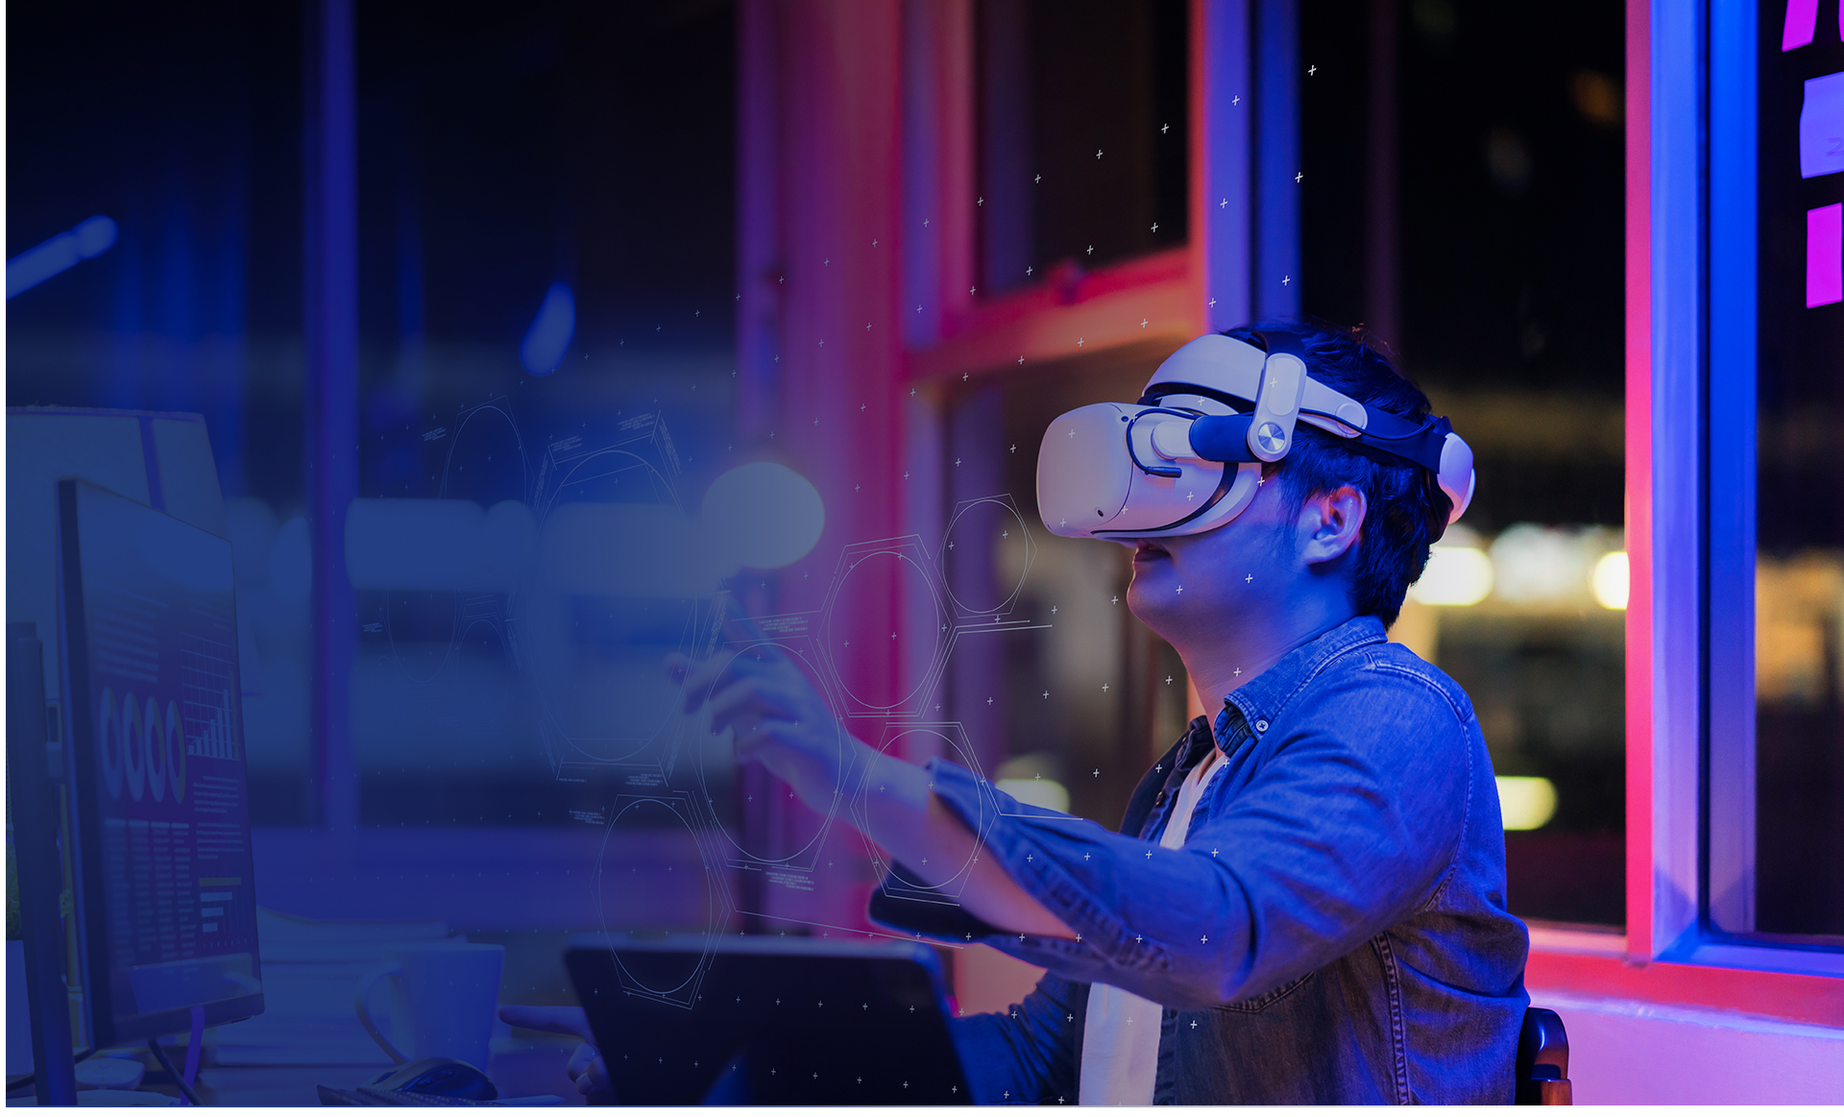
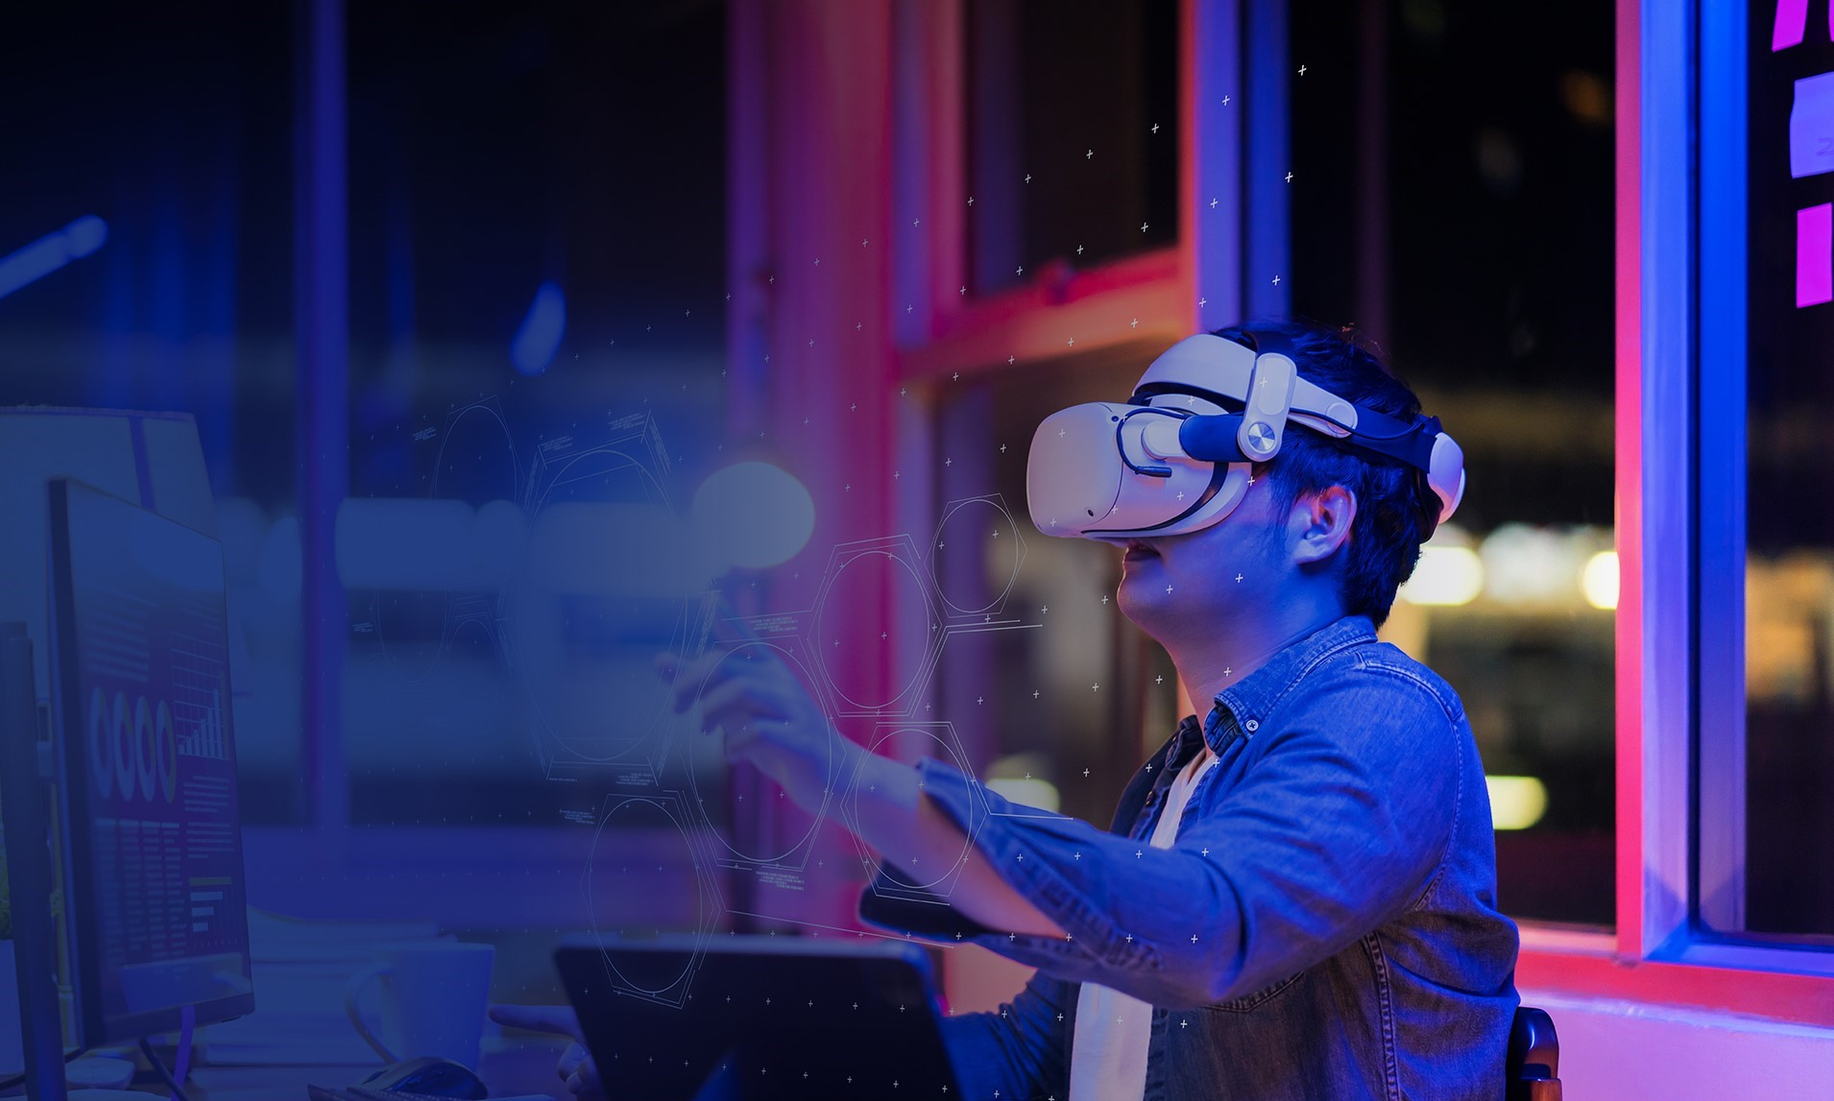
changes all images

diff --git a/index.html b/index.html
@@ -354,45 +354,55 @@
           <button type="button" data-bs-target="#carouselExampleDark" data-bs-slide-to="2" aria-label="Slide 3"></button>
         </div>
         <div class="carousel-inner">
-          <div class="carousel-item active" data-bs-interval="1000">
+          <div class="carousel-item active" data-bs-interval="5000">
             <img src="assets/images/Images_new/Banner_1.jpg" class="d-block w-100" alt="..." >
-            <div class="carousel-caption hero-content custom-caption d-none d-md-block">
-                <h3 class="sub-title  " data-aos-delay="600" data-aos="fade-up">Technology Related
-                    Consultancy
-                </h3>
-                <h2 class="title" data-aos="fade-up" data-aos-delay="800">We transform ideas into
-                    technology
+            <div class="carousel-caption hero-content custom-caption d-none d-md-block text-start text-white">
+                <P class="sub-title text-white" data-aos-delay="600" data-aos="fade-up" style="font-size: 25px;">
+                    TECHNOLOGY RELATED CONSULTANCY
+                </P>
+                <h2 class="title text-white" data-aos="fade-up" data-aos-delay="800" 
+                style="font-size: 80px; width: 72%;">
+                    We Transform Ideas into Technology                    
                 </h2>
-                <p data-aos="fade-up" data-aos-delay="900">We provide the most responsive and functional IT
-                    design for companies and businesses worldwide.</p>
+                <p data-aos="fade-up" class=" sub-title text-white" data-aos-delay="900"
+                style="font-size: 31px; width: 70%; ">
+                    We provide the most responsive and functional IT
+                    design for companies and businesses worldwide.
+                </p>
             </div>
           </div>
-          <div class="carousel-item" data-bs-interval="200000">
+          <div class="carousel-item" data-bs-interval="5000">
             <img src="assets/images/Images_new/Banner_2.jpg" class="d-block w-100" alt="...">
             <div class="carousel-caption hero-content custom-caption d-none d-md-block text-end text-white">
-                <P class="sub-title text-white" data-aos-delay="600" data-aos="fade-up">
+                <P class="sub-title text-white" data-aos-delay="600" data-aos="fade-up" style="font-size: 25px;">
                     TECHNOLOGY RELATED CONSULTANCY
-                    
                 </P>
-                <h2 class="title text-white" data-aos="fade-up" data-aos-delay="800">
-                    We transform ideas into
-                    technology
+                <h2 class="title text-white" data-aos="fade-up" data-aos-delay="800" 
+                style="font-size: 80px; width: 72%; margin-left: 30%;">
+                    We Transform Ideas into Technology                    
                 </h2>
-                <p data-aos="fade-up" class=" sub-title text-white" data-aos-delay="900">We provide the most responsive and functional IT
-                    design for companies and businesses worldwide.</p>
+                <p data-aos="fade-up" class=" sub-title text-white" data-aos-delay="900"
+                style="font-size: 31px; width: 70%; margin-left: 32%">
+                    We provide the most responsive and functional IT
+                    design for companies and businesses worldwide.
+                </p>
             </div>
           </div>
-          <div class="carousel-item" data-bs-interval="1000">
+          <div class="carousel-item" data-bs-interval="5000">
             <img src="assets/images/Images_new/Banner_3.jpg" class="d-block w-100" alt="...">
-            <div class="carousel-caption hero-content custom-caption d-none d-md-block text-white">
-                <h3 class="sub-title " data-aos-delay="600" data-aos="fade-up">Technology Related
-                    Consultancy
-                </h3>
-                <h2 class="title " data-aos="fade-up" data-aos-delay="800">We transform ideas into
-                    technology
+            <div class="carousel-caption hero-content custom-caption d-none d-md-block text-end text-white">
+                <P class="sub-title text-white" data-aos-delay="600" data-aos="fade-up" style="font-size: 25px;">
+                    TECHNOLOGY RELATED CONSULTANCY
+                </P>
+                <h2 class="title text-white" data-aos="fade-up" data-aos-delay="800" 
+                style="font-size: 80px; width: 72%; margin-left: 30%;">
+                    We Transform Ideas into Technology                    
                 </h2>
-                <p data-aos="fade-up" data-aos-delay="900">We provide the most responsive and functional IT
-                    design for companies and businesses worldwide.</p>
+                <p data-aos="fade-up" class=" sub-title text-white" data-aos-delay="900"
+                style="font-size: 31px; width: 70%; margin-left: 32%">
+                    We provide the most responsive and functional IT
+                    design for companies and businesses worldwide.
+                </p>
             </div>
           </div>
         </div>
@@ -407,9 +417,8 @@
             <!-- About Wrap Start -->
             <div class="about-wrap">
                 <div class="section-title text-center">
-                    <!-- <h3 class="sub-title">Who we are</h3> -->
-                    <!-- <h2 class="title">ViSenAi is powered by an exclusive team
-                    </h2> -->
+                    <h3 class="sub-title ">Who we are</h3>
+                    <h2 class="title">ViSenAi is powered by an exclusive team</h2>
                 </div>
                 <!-- About Content Wrap Start -->
                 <div class="about-content-wrap">
@@ -418,11 +427,11 @@
                             <!-- About Image Wrap Start -->
                             <div class="about-img-wrap">
                                 <div class="about-img about-img-big">
-                                    <img src="assets/images/wepik-export-202402271219094Nvl.jpeg" alt="">
+                                    <img src="assets/images/Images_new/Image_1.png" alt="">
                                 </div>
                                 <!-- <div class="about-img about-img-sm">
                                     <img src="assets/images/wepik-export-20240223060621KZA0(1).jpeg" alt="">
-                                    <div class="shape-01"></div>
+                                    <div class="shape-01">hi</div>
                                 </div> -->
                             </div>
                             <!-- About Image Wrap End -->
@@ -431,17 +440,18 @@
                             <!-- About Content Start -->
                             <div class="about-content section-title">
                                 <!-- <p class="sub-title">ABOUT US</p> -->
-                                <h3 class="sub-title">ABOUT US</h3>
+                                
+                                <!-- <h3 class="sub-title">ABOUT US</h3>
                                 <p class="title">WHO WE ARE</p>
                                 <p class="text">ViSenAi is powered by an exclusive team of young professionals with 
                                     undiminishing spirit and uncompromising dedication. They have in-depth industry knowledge 
                                     and deep domain expertise in the AR, VR, AI technology spectrum. 
                                     ViSenAi develops customer focussed innovative solutions using the emerging AR, VR, AI 
                                     technologies that result in business advantages like huge return on investment and 
-                                    customer satisfaction. Advance technological experience of Praptisense digitally transfor</p>
+                                    customer satisfaction. Advance technological experience of Praptisense digitally transfor</p> -->
                                 <!-- About List Item Wrap Start -->
                                 <div class="about-list-item-wrap">
-                                    <!-- <a href="#artificialIntelligence">
+                                    <a href="#artificialIntelligence">
                                         <div class="about-list-item">
                                             <div class="about-img">
                                                 <img src="assets/images/ai_12534625(2).png" alt="">
@@ -453,8 +463,8 @@
                                                 </span>
                                             </div>
                                         </div>
-                                    </a> -->
-                                    <!-- <a href="#augumentedReality">
+                                    </a>
+                                    <a href="#augumentedReality">
                                         <div class="about-list-item">
                                             <div class="about-img">
                                                 <img src="assets/images/simulation_2861846.png" alt="">
@@ -465,8 +475,8 @@
                                                     human-computer interaction</span>
                                             </div>
                                         </div>
-                                    </a> -->
-                                    <!-- <a href="#enterpriseApplication">
+                                    </a>
+                                    <a href="#enterpriseApplication">
                                         <div class="about-list-item">
                                             <div class="about-img">
                                                 <img src="assets/images/smartphone_3715371.png" alt="">
@@ -477,8 +487,8 @@
                                                     enterprise applications</span>
                                             </div>
                                         </div>
-                                    </a> -->
-                                    <!-- <a href="#marketingAutomations">
+                                    </a>
+                                    <a href="#marketingAutomations">
                                         <div class="about-list-item">
                                             <div class="about-img">
                                                 <img src="assets/images/promote_2631057.png" alt="">
@@ -489,7 +499,7 @@
                                                     world-class tech teams</span>
                                             </div>
                                         </div>
-                                    </a> -->
+                                    </a>
                                 </div>
                                 <!-- About List Item Wrap End -->
                             </div>
@@ -504,52 +514,53 @@
     </div>
     <!-- About End -->
     <!-- Vision mission Start -->
-    <div class="section">
-        <div class="container" id="aboutus">
+    <!-- <div class="section">
+        <div class="container" id="aboutus"> -->
             <!-- About Wrap Start -->
-            <div class="about-wrap">
-                <div class="section-title ">
+            <!-- <div class="about-wrap">
+                <div class="section-title "> -->
                     <!-- <h3 class="sub-title">Vision</h3> -->
                     <!-- <h2 class="title">ViSenAi is powered by an exclusive team
                     </h2> -->
-                </div>
+                <!-- </div> -->
                 <!-- About Content Wrap Start -->
-                <div class="about-content-wrap">
+                <!-- <div class="about-content-wrap">
                     <div class="row">
                         <div class="col-lg-6">
-                            <h3 class="sub-title text-center">Vision</h3>
+                            <h3 class="sub-title text-center">Vision</h3> -->
                             <!-- About Image Wrap Start -->
-                            <div class="about-img-wrap p-3">
-                                <div class="row">
-                                    <div class="col-lg-6">
+                            <!-- <div class="about-img-wrap p-3">
+                                <div class="row"> -->
+                                    <!-- <div class="col-lg-6">
                                         <div class="about-img about-img-big">
                                             <img src="assets/images/wepik-export-202402271219094Nvl.jpeg" width=""
                                                 height="" alt="" >
                                         </div>
-                                    </div>
-                                    <div class="col-lg-6">
+                                    </div> -->
+                                    <!-- <div class="col-lg-6"> -->
                                         <!-- About Content Start -->
-                                        <div class="about-content section-title">
+                                        <!-- <div class="about-content section-title"> -->
                                             <!-- <p class="sub-title">ABOUT US</p> -->
                                             <!-- <h3 class="sub-title">ABOUT US</h3> -->
                                             <!-- <p class="title">WHO WE ARE</p> -->
-                                            <p class="text">To become the favoured technology partner of business 
+                                            <!-- <p class="text">To become the favoured technology partner of business 
                                                 enterprises of any industry any size and achieve sustainability with 
-                                                consistent innovations.</p>
-                                        </div>
+                                                consistent innovations.
+                                            </p> -->
+                                        <!-- </div> -->
                                         <!-- About Content End -->
-                                    </div>
+                                    <!-- </div>
 
-                                </div>
+                                </div> -->
                                 <!-- <p>hi</p> -->
 
-                            </div>
+                            <!-- </div> -->
                             <!-- About Image Wrap End -->
-                        </div>
-                        <div class="col-lg-6">
-                            <h3 class="sub-title text-center">Mission</h3>
+                        <!-- </div> -->
+                        <!-- <div class="col-lg-6">
+                            <h3 class="sub-title text-center">Mission</h3> -->
                             <!-- About Image Wrap Start -->
-                            <div class="about-img-wrap p-3">
+                            <!-- <div class="about-img-wrap p-3">
                                 <div class="row">
                                     <div class="col-lg-6">
                                         <div class="about-img about-img-big">
@@ -557,32 +568,30 @@
                                                 height="" alt="">
                                         </div>
                                     </div>
-                                    <div class="col-lg-6">
+                                    <div class="col-lg-6"> -->
                                         <!-- About Content Start -->
-                                        <div class="about-content section-title">
+                                        <!-- <div class="about-content section-title"> -->
                                             <!-- <p class="sub-title">ABOUT US</p> -->
                                             <!-- <h3 class="sub-title">ABOUT US</h3> -->
                                             <!-- <p class="title">WHO WE ARE</p> -->
-                                            <p class="text">To bridge the gap between business and the technology by offering 
+                                            <!-- <p class="text">To bridge the gap between business and the technology by offering 
                                                 cutting-edge products and services in AR, VR and AI that result in hassle 
                                                 free digital transformation.</p>
-                                        </div>
+                                        </div> -->
                                         <!-- About Content End -->
-                                    </div>
-
-                                </div>
+                                    <!-- </div>
+                                </div> -->
                                 <!-- <p>hi</p> -->
-
-                            </div>
+                            <!-- </div> -->
                             <!-- About Image Wrap End -->
-                        </div>
+                        <!-- </div>
                     </div>
-                </div>
+                </div> -->
                 <!-- About Content Wrap End -->
-            </div>
+            <!-- </div> -->
             <!-- About Wrap End -->
-        </div>
-    </div>
+        <!-- </div>
+    </div> -->
     <!-- Vision mission End -->
 
 
@@ -742,7 +751,7 @@
                                                 Tensorflow</a></h3>
                                     </div>
                                     <a class="play-btn popup-video"
-                                        href="https://youtu.be/HyNVj1S7u_w?si=F1WHqI2a8Egn_2Sl"><i
+                                        href="https://www.youtube.com/watch?v=HyNVj1S7u_w"><i
                                             class="fas fa-play"></i></a>
                                 </div>
                             </div>
@@ -763,7 +772,7 @@
                                                         Ml</a></h3>
                                             </div>
                                             <a class="play-btn popup-video"
-                                                href="https://youtu.be/3swAKpn9r54?si=9lWS8xYpItRkIN0W"><i
+                                                href="https://www.youtube.com/watch?v=3swAKpn9r54"><i
                                                     class="fas fa-play"></i></a>
                                         </div>
                                     </div>
@@ -782,7 +791,7 @@
                                                         Ml</a></h3>
                                             </div>
                                             <a class="play-btn popup-video"
-                                                href="https://youtu.be/eLLJ7FL4xb8?si=UCdhWoh1iLs97Cyo"><i
+                                                href= "https://www.youtube.com/watch?v=eLLJ7FL4xb8"><i
                                                     class="fas fa-play"></i></a>
                                         </div>
                                     </div>
@@ -1045,7 +1054,7 @@
                             <!-- About Image Wrap Start -->
                             <div class="about-img-wrap">
                                 <div class="about-img about-img-big">
-                                    <img src="assets/images/16396162_rm373batch5-blogbanner-08.jpg" alt=""  height="300px" width="600px">
+                                    <img src="assets/images/Images_new/Image_2.png" alt=""  height="300px" width="600px">
                                 </div>
                             </div>
                             <!-- About Image Wrap End -->
@@ -1094,7 +1103,7 @@
                             <!-- About Image Wrap Start -->
                             <div class="about-img-wrap">
                                 <div class="about-img about-img-big">
-                                    <img src="assets/images/wepik-export-20240227143723TgrJ.jpeg" alt=""  height="300px" width="600px">
+                                    <img src="assets/images/Images_new/Image_3.png" alt=""  height="300px" width="600px">
                                 </div>
                             </div>
                             <!-- About Image Wrap End -->
@@ -1117,7 +1126,7 @@
                             <!-- About Image Wrap Start -->
                             <div class="about-img-wrap">
                                 <div class="about-img about-img-big">
-                                    <img src="assets/images/wepik-export-20240227143517ZwxH.jpeg" alt=""  height="300px" width="600px">
+                                    <img src="assets/images/Images_new/Image_4.png" alt=""  height="300px" width="600px">
                                 </div>
                             </div>
                             <!-- About Image Wrap End -->
@@ -1171,7 +1180,7 @@
                             <!-- About Image Wrap Start -->
                             <div class="about-img-wrap">
                                 <div class="about-img about-img-big">
-                                    <img src="assets/images/marketingautomations.jpg" alt="" height="300px" width="600px">
+                                    <img src="assets/images/Images_new/Image_5.png" alt="" height="300px" width="600px">
                                 </div>
                             </div>
                             <!-- About Image Wrap End -->

diff --git a/assets/css/style.css b/assets/css/style.css
@@ -5713,7 +5713,7 @@ textarea:-ms-input-placeholder {
   padding-bottom: 1.25rem;
   color: #fff;
   text-align: center;
-  top: 10%;
+  top: 20%;
   right: 15%;
 }
 
